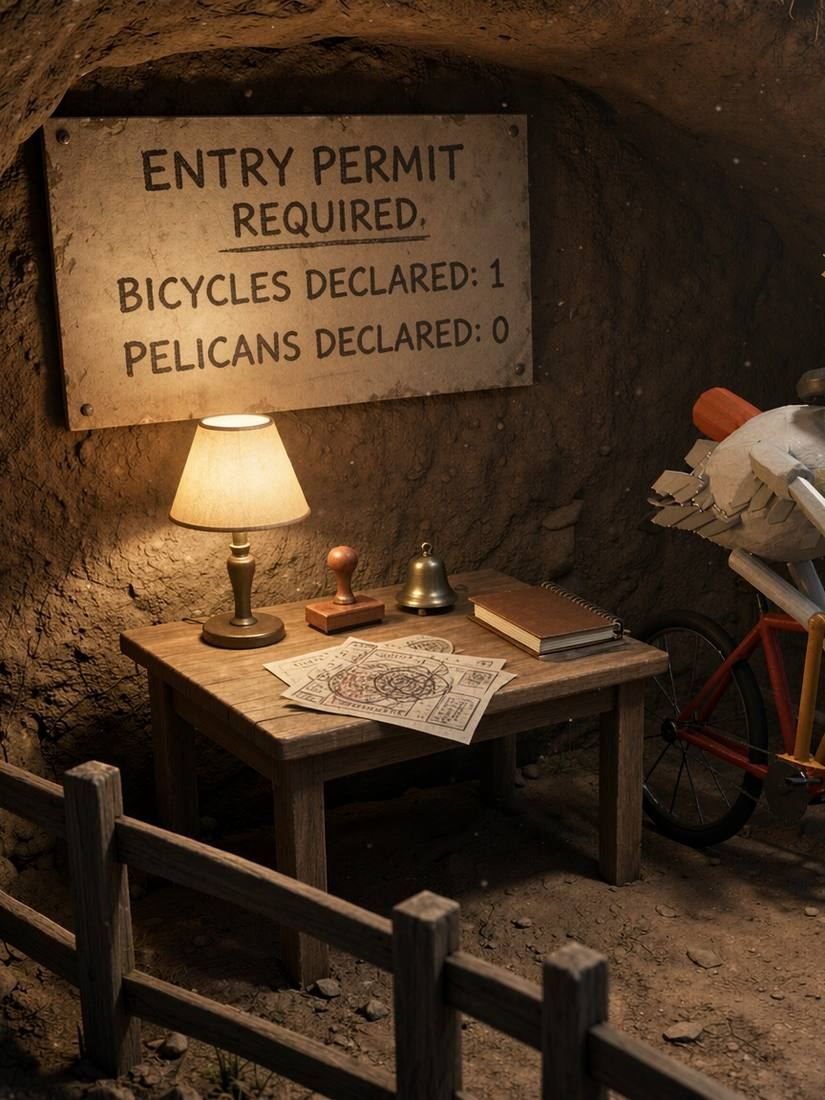
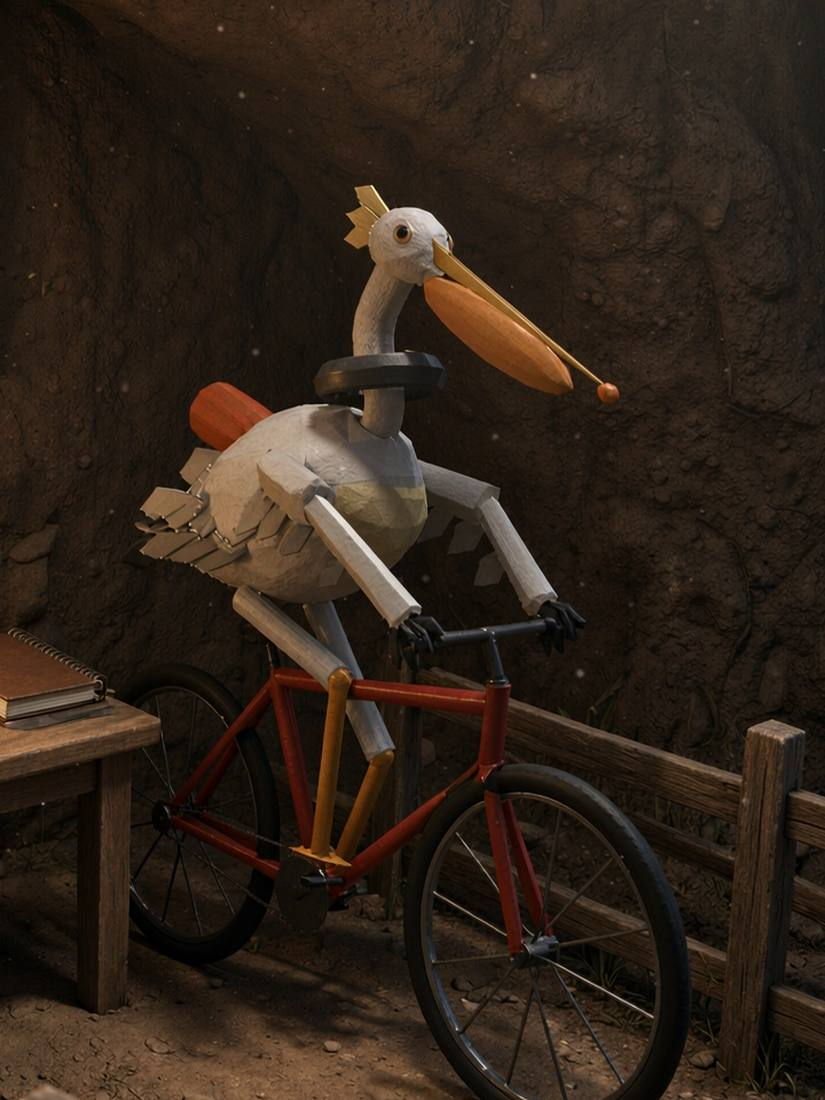
MK-14 改裁：保住鵜鶘，捨棄桌子與牌子
前一版偏左裁，結果牌子完整但車只剩半個輪子 —— 取捨方向選錯了。
鳥比牌子重要，牠才是主角規則要求的東西，而且「騎單車」這件事本身
就在畫面裡，車切掉等於把主題切掉。

改成偏右放大：鵜鶘與整台車完整，地面與木柵欄留著，構圖平衡。
牌子的邊緣（D: 1 / D: 0）還剩一點痕跡，算留個線索。

因為桌子與牌子都切掉了，文案跟著全部重寫 —— 這頁的规矩是商品文字
只講照片上有的東西：

- 名稱 Desk diorama → Rabbit hole scene（畫面裡已經沒有桌子）
- 描述改寫成紙箱挖的洞、露鐵絲的關節、兩片紙板夾棉線的嘴
- 店舖說明那句 MOQ 1 的「The desk diorama」同步改名

MK-19 也叫 Paper pelican，所以 MK-14 沒用那個名字，避免兩件撞名。

diff --git a/series/merch.html b/series/merch.html
@@ -195,7 +195,7 @@
   minimum before the workshop will start, and if that minimum is not reached in
   <span class="mono">60 DAYS</span> the money is returned and nobody loses anything but an
   afternoon.</p>
-  <p><b>Two of these have no minimum worth the name.</b> The desk diorama is
+  <p><b>Two of these have no minimum worth the name.</b> The rabbit hole scene is
   <span class="mono">MOQ 1</span> &mdash; built after you pay, shipped on its own. The snow globe is
   <span class="mono">MOQ 12</span>, because that is how many blanks the man in the shop had.</p>
   <p><b>Priced in US dollars</b> throughout, on both batches, as quoted by the makers. The
@@ -259,8 +259,8 @@ const GOODS2 = [
   { id:'MK-13', img:'MK-13', name:'Embroidered patch', by:'布章店 · 邊緣縫得不齊',
     line:'米色帆布上一枚圓章，紅線繡的邊。裡面一隻鵜鶘站在紅色單車上。字沿著圓周縫：THE GOLDEN PELICAN · STILL AT LARGE。右下角有一根線沒藏進布裡。',
     price:'$9', moq:100, paid:74, flag:'EMBROIDERED TO ORDER' },
-  { id:'MK-14', img:'MK-14', name:'Desk diorama', by:'紙景師 · 一個房間 一個晚上',
-    line:'一個紙箱挖成的兔子洞入口，裡面有木柵欄、一張桌子、一盞小燈。牆上釘著牌子：ENTRY PERMIT REQUIRED，下面寫 BICYCLES DECLARED: 1、PELICANS DECLARED: 0。桌子旁邊停著那輛車，只露出半個車輪。',
+  { id:'MK-14', img:'MK-14', name:'Rabbit hole scene', by:'紙景師 · 一個房間 一個晚上',
+    line:'一個紙箱挖成的兔子洞，牆上掛著木柵欄。鵜鶘坐在一輛紅色單車上，紙做的身體關節處露著鐵絲。牠的嘴是兩片分開的紙板，中間夾著一根棉線。地上有碎紙屑。',
     price:'$95', moq:1, paid:1, flag:'BUILT AFTER YOU PAY' },
   { id:'MK-15', img:'MK-15', name:'Field notebook', by:'文具行 · 另一個人',
     line:'灰色硬皮筆記本。封面貼了一張照片：一隻戴綠色小帽的鵜鶘騎在車上，旁邊有人用原子筆寫 I saw him twice，畫了箭頭指著鳥。照片貼歪了，邊緣翹起來。裡面大部分是空的。',
